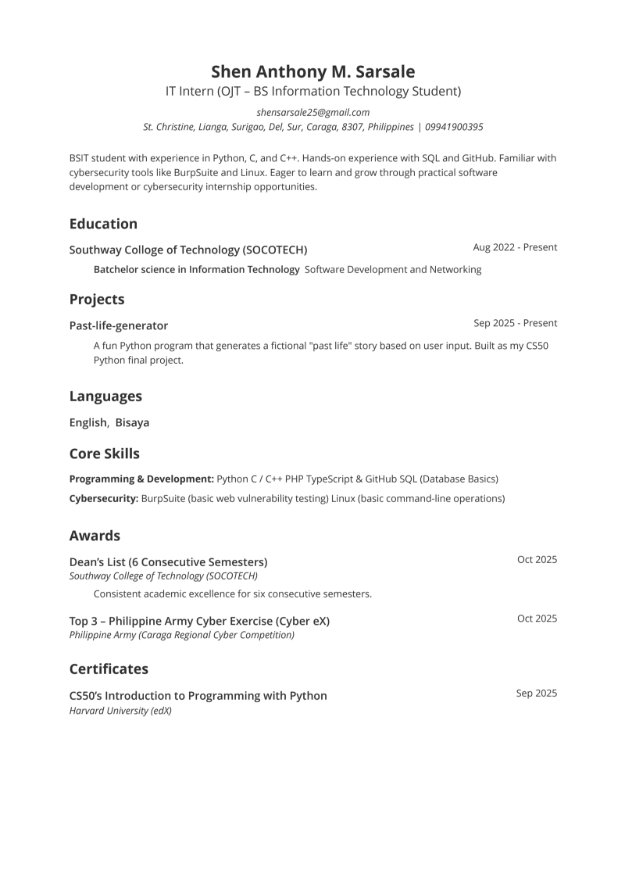
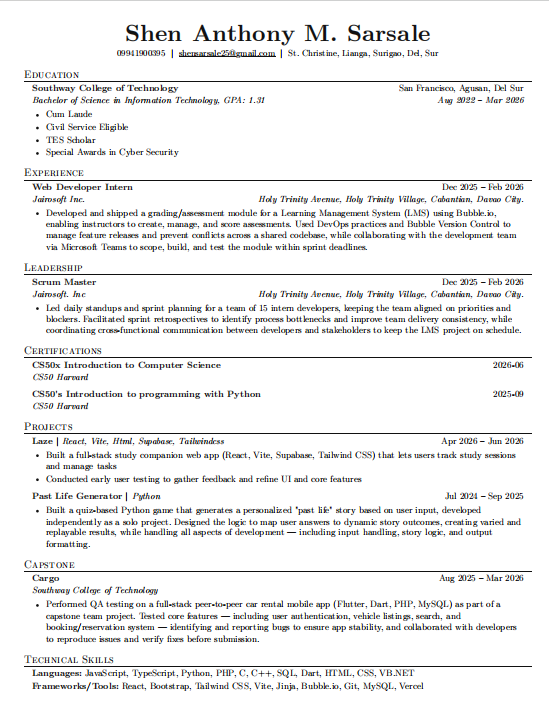
added a legit cv

Changed region(s): [[0.031, 0.0309, 0.9599, 0.9874]]

diff --git a/src/sections/Experiece.jsx b/src/sections/Experiece.jsx
@@ -57,7 +57,7 @@ export const Experience = () => {
                                                 {exp.technology.map((tech, indxtech) => (
                                                     <span 
                                                         key={indxtech} 
-                                                        className="px-3 py-1 text-xs font-mono rounded-lg border border-foreground/10 text-muted-foreground"
+                                                        className="px-3 py-1 text-xs font-mono rounded-lg border border-foreground/10 text-muted-foreground text-center"
                                                     >
                                                         {tech}
                                                     </span>

diff --git a/src/App.jsx b/src/App.jsx
@@ -9,6 +9,7 @@ import { Certificates } from "./sections/Certificates"
 import { Cv } from "./away/Cv"
 import { View_projects } from "./away/View_projects"
 import { Toplok } from "./away/Toplok"
+import { Outside } from "./sections/Outside"
 import { ThemeProvider } from "./sections/ThemeContext"
 
 function App() {
@@ -31,6 +32,7 @@ function App() {
                 <Experience />
                 <Education />
                 <Certificates />
+                <Outside />
               </>
             } />
             

diff --git a/src/sections/Certificates.jsx b/src/sections/Certificates.jsx
@@ -89,7 +89,7 @@ export const Certificates = () => {
                         
 
                         <h1 className="font-mono text-lg lg:text-md font-medium tracking-tight pt-1 ">
-                            1,657 contributions Last year
+                            1,657 contributions Last 2025
                         </h1>
                         <a
                             href="https://github.com/Ein-shen?tab=overview&from=2026-07-01&to=2026-07-22"

diff --git a/src/sections/Outside.jsx b/src/sections/Outside.jsx
@@ -1,0 +1,7 @@
+import React from 'react'
+
+export const Outside = () => {
+  return (
+    <div>Outside</div>
+  )
+}
